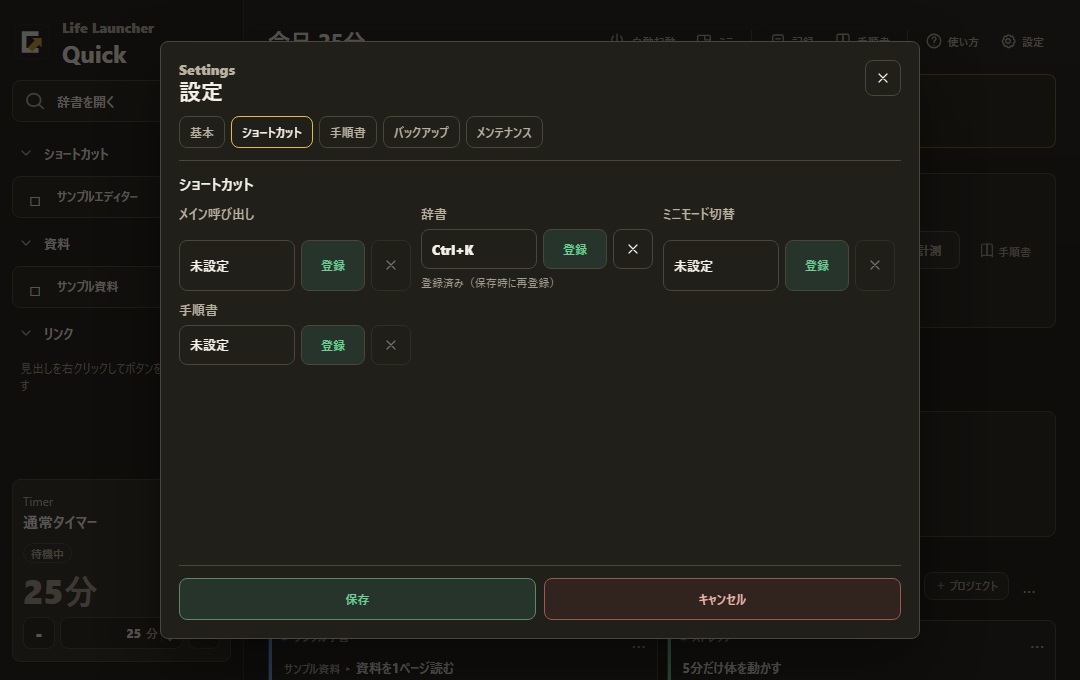
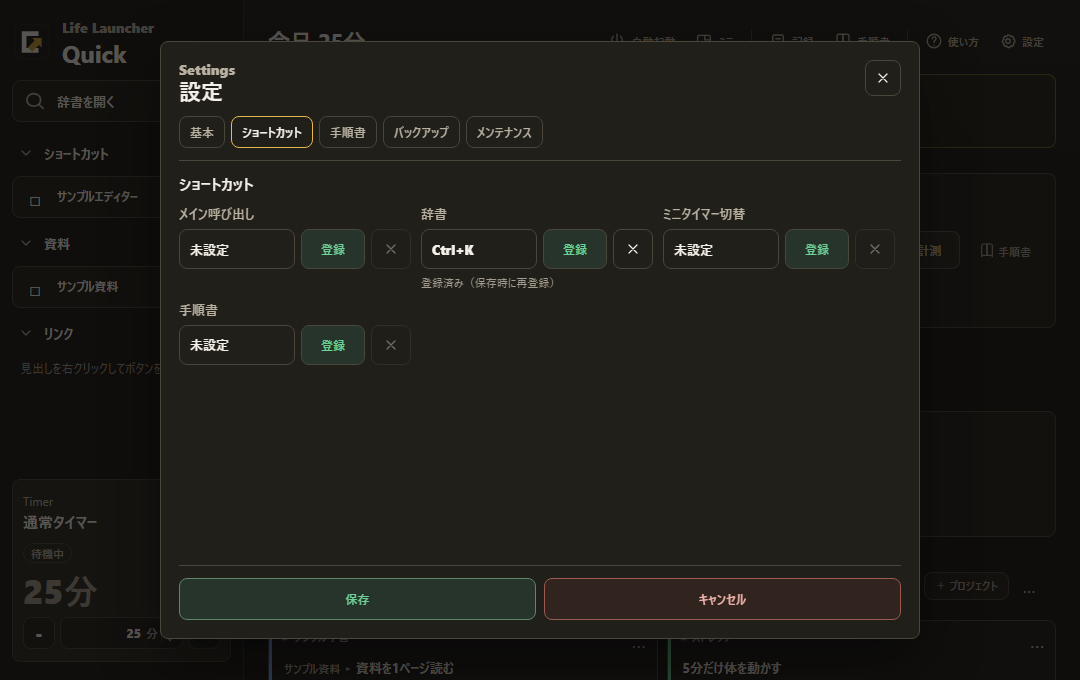
P9-10: ショートカット欄の上端をそろえ、ミニモードの表記をミニタイマーにそろえる
- 補足行の有無にかかわらず、同じ行のショートカット入力欄の上端をそろえる
- 画面に出る「ミニモード」を「ミニタイマー」に統一(設定のキーと保存形式は変更なし)
- 「以前のメモ（3日）」のかっこを全角に変更
- P9-09 のブランチの修正を取り込み

diff --git a/tests/visual/phase9-dialog-details.spec.ts b/tests/visual/phase9-dialog-details.spec.ts
@@ -119,7 +119,12 @@ test("P9-10 the mini setting is named 'use the mini timer' and still only gates 
   const saved = await page.evaluate(() => (window as QaWindow).__LIFE_LAUNCHER_VISUAL_QA__.currentConfig());
   expect(saved.settings.miniMode).toBe(false);
   // Same stored key, same effect: the top menu Mini button is disabled.
-  await expect(page.getByRole("button", { name: "ミニモードへ切り替え" })).toBeDisabled();
+  await expect(page.getByRole("button", { name: "ミニタイマーへ切り替え" })).toBeDisabled();
+  await expect(page.getByRole("button", { name: "ミニタイマーへ切り替え" })).toHaveAttribute(
+    "title",
+    "設定で「ミニタイマーを使う」をオンにしてください",
+  );
+  await expect(page.getByText("ミニモード")).toHaveCount(0);
 });
 
 // 4. Shortcut hints ---------------------------------------------------------------------------
@@ -132,7 +137,7 @@ test("P9-10 an unset shortcut shows 未設定 once; the line below appears only 
   await open(page, fixture);
   const settings = await openSettings(page, "ショートカット");
 
-  const unset = settings.locator(".shortcutCaptureField", { hasText: "ミニモード切替" });
+  const unset = settings.locator(".shortcutCaptureField", { hasText: "ミニタイマー切替" });
   await expect(unset.locator("kbd")).toHaveText("未設定");
   await expect(unset.locator("small")).toHaveCount(0);
 
@@ -146,6 +151,35 @@ test("P9-10 an unset shortcut shows 未設定 once; the line below appears only 
   await page.keyboard.press("Escape");
   await expect(unset.locator("small")).toHaveCount(0);
   await expect(settings.locator("small", { hasText: /^未設定$/ })).toHaveCount(0);
+});
+
+test("P9-10 shortcut inputs in the same row share one top whether or not they have a line below", async ({
+  page,
+}) => {
+  const fixture = createPickerFixture();
+  fixture.config.settings.miniHotkey = null;
+  await open(page, fixture);
+  const settings = await openSettings(page, "ショートカット");
+  const fields = settings.locator(".shortcutCaptureField");
+  await expect(fields).toHaveCount(4);
+  const boxes = await fields.evaluateAll((nodes) =>
+    nodes.map((node) => {
+      const field = node.getBoundingClientRect();
+      const control = node.querySelector(".shortcutCaptureControl")!.getBoundingClientRect();
+      return { fieldTop: field.top, controlTop: control.top, hasLine: Boolean(node.querySelector("small")) };
+    }),
+  );
+  // Both kinds exist: with the line (registered) and without it (unset).
+  expect(boxes.some((box) => box.hasLine)).toBe(true);
+  expect(boxes.some((box) => !box.hasLine)).toBe(true);
+  // The input sits at the same distance from its field's top, so fields in one row have equal input tops.
+  const offsets = boxes.map((box) => Math.round(box.controlTop - box.fieldTop));
+  expect(new Set(offsets).size).toBe(1);
+  for (const a of boxes) {
+    for (const b of boxes) {
+      if (Math.abs(a.fieldTop - b.fieldTop) < 1) expect(Math.abs(a.controlTop - b.controlTop)).toBeLessThan(1);
+    }
+  }
 });
 
 test("P9-10 a conflicting shortcut still shows its warning line", async ({ page }) => {
@@ -334,7 +368,7 @@ test("P9-10 the older notes disclosure has an arrow, shows the day count, and to
   const records = await openAllRecords(page);
   const older = records.locator(".recordsOlderNotes");
   const summary = older.locator("summary");
-  await expect(summary).toHaveText("以前のメモ(3日)");
+  await expect(summary).toHaveText("以前のメモ（3日）");
   // The same chevron icons as the other disclosures, and the native marker is not the indicator.
   await expect(summary.locator("svg")).toHaveCount(1);
   const closedIcon = await summary.locator("svg").evaluate((svg) => svg.innerHTML);

diff --git a/src/App.tsx b/src/App.tsx
@@ -436,7 +436,7 @@ const SHORTCUT_DRAFT_FIELDS: ReadonlyArray<{
 }> = [
   { field: "focusHotkey", label: "メイン呼び出し" },
   { field: "launcherHotkey", label: "辞書" },
-  { field: "miniHotkey", label: "ミニモード切替" },
+  { field: "miniHotkey", label: "ミニタイマー切替" },
   { field: "instructionHotkey", label: "手順書" },
 ];
 
@@ -3433,7 +3433,7 @@ function DashboardApp() {
   const openMiniMode = useCallback(async () => {
     if (expandedTimerOpen) return;
     if (!config?.settings.miniMode) {
-      showToast("warn", "設定でミニモードを有効にしてください");
+      showToast("warn", "設定で「ミニタイマーを使う」をオンにしてください");
       return;
     }
     let stage = "メイン画面の取得";
@@ -3458,7 +3458,7 @@ function DashboardApp() {
       await focusDashboardWindow().catch(() => undefined);
       const message = error instanceof Error ? error.message : String(error);
       console.error(`[mini-mode] ${stage}で失敗しました`, error);
-      showToast("warn", `ミニモードを開けません (${stage}): ${message}`);
+      showToast("warn", `ミニタイマーを開けません (${stage}): ${message}`);
     }
   }, [config?.settings.miniMode, ensureMiniWindow, expandedTimerOpen, miniSnapshot, showToast]);
 
@@ -10780,12 +10780,12 @@ function DashboardApp() {
                 onClick={() => void toggleMiniMode()}
                 title={
                   miniTransitioning
-                    ? "ミニモードを準備中"
+                    ? "ミニタイマーを準備中"
                     : config.settings.miniMode
-                      ? "ミニモードへ切り替え"
-                      : "設定でミニモードを有効にしてください"
+                      ? "ミニタイマーへ切り替え"
+                      : "設定で「ミニタイマーを使う」をオンにしてください"
                 }
-                aria-label="ミニモードへ切り替え"
+                aria-label="ミニタイマーへ切り替え"
                 type="button"
               >
                 <UiIcon name="miniMode" size={18} />

diff --git a/tests/visual/post-v133b-followup.spec.ts b/tests/visual/post-v133b-followup.spec.ts
@@ -161,11 +161,11 @@ test("shortcut conflict names every action and clears when the duplicate is remo
   await dialog.getByRole("tab", { name: "ショートカット" }).click();
   await expect(dialog.getByRole("alert")).toContainText("メイン呼び出し");
   await expect(dialog.getByRole("alert")).toContainText("辞書");
-  await expect(dialog.getByRole("alert")).toContainText("ミニモード切替");
+  await expect(dialog.getByRole("alert")).toContainText("ミニタイマー切替");
   await expect(dialog.locator(".shortcutCaptureField--conflict")).toHaveCount(3);
   await dialog.getByRole("button", { name: "保存", exact: true }).click();
   await expect(dialog).toBeVisible();
-  await dialog.getByRole("button", { name: "ミニモード切替のショートカットを解除" }).click();
+  await dialog.getByRole("button", { name: "ミニタイマー切替のショートカットを解除" }).click();
   await expect(dialog.locator(".shortcutCaptureField--conflict")).toHaveCount(2);
   await dialog.getByRole("button", { name: "メイン呼び出しのショートカットを解除" }).click();
   await expect(dialog.getByRole("alert")).toHaveCount(0);
@@ -175,7 +175,7 @@ test("shortcut matching ignores modifier order and alias spelling", () => {
   const conflicts = findShortcutConflicts([
     { field: "main", label: "メイン呼び出し", value: "Ctrl+Alt+K" },
     { field: "dictionary", label: "辞書", value: "Alt+Ctrl+K" },
-    { field: "mini", label: "ミニモード切替", value: "Ctrl+K" },
+    { field: "mini", label: "ミニタイマー切替", value: "Ctrl+K" },
     { field: "instructions", label: "手順書", value: "Command+Shift+J" },
   ]);
   expect(conflicts).toHaveLength(1);

diff --git a/tests/visual/phase8-records.spec.ts b/tests/visual/phase8-records.spec.ts
@@ -147,7 +147,7 @@ test("all records supports filters, keyboard context actions and execution-recor
   await expect(older).not.toHaveAttribute("open", "");
   await expect(older.locator("input")).toHaveCount(3);
   await expect(older.locator("input").first()).not.toBeVisible();
-  await older.getByText("以前のメモ(1日)", { exact: true }).click();
+  await older.getByText("以前のメモ（1日）", { exact: true }).click();
   await expect(older.getByRole("textbox").first()).toBeVisible();
 
   await records.getByRole("button", { name: "実行記録を追加" }).click();

diff --git a/src/RecordsView.tsx b/src/RecordsView.tsx
@@ -388,7 +388,7 @@ export function RecordsView({
           >
             <summary>
               <UiIcon name={olderNotesOpen ? "chevronDown" : "chevronRight"} size={16} />
-              {notesHistory?.entries.length ? `以前のメモ(${notesHistory.entries.length}日)` : "以前のメモ"}
+              {notesHistory?.entries.length ? `以前のメモ（${notesHistory.entries.length}日）` : "以前のメモ"}
             </summary>
             {notesHistory?.entries.length ? (
               <div className="notesHistoryList">

diff --git a/src/styles.css b/src/styles.css
@@ -7324,6 +7324,8 @@ input[type="number"]::-webkit-inner-spin-button {
 
 .shortcutCaptureField {
   min-width: 0;
+  /* P9-10: a field without the line below must not stretch its rows; inputs in one grid row share the same top. */
+  align-content: start;
 }
 
 .shortcutConflictWarning {

diff --git a/docs/phase9/10-dialog-details.md b/docs/phase9/10-dialog-details.md
@@ -2,6 +2,8 @@
 
 ブランチ: `feature/p9-10-dialog-details`(起点: `feature/p9-09-main-details`。PR のマージ先も P9-09 のブランチ)
 
+オーナー確認後の修正(14. 参照)を入れた。P9-09 のブランチの修正(案内文を1行に、入れ替え画面の見出し)も、このブランチに取り込んである。
+
 ## 1. 判定
 
 `DONE`(CI の結果は 11. に追記)
@@ -12,7 +14,8 @@
 
 - 英語の小見出しの表記ゆれ2か所(やりたいことを編集=`Wishlist`、辞書=`Dictionary`)、日付切替時刻の単位「時」、ミニの設定の名前「ミニタイマーを使う」、ショートカットの「未設定」の二重表示、メンテナンスタブの先頭の1行を直した。
 - 保存・追加・決定の文字を、キャンセルと同じ大きさ(12px)にそろえた(色は変えていない)。同じ食い違いは、ほぼ全ダイアログの操作行にあった(6. 参照)。
-- 記録画面のタブ列の左の「← メイン」をなくし、「以前のメモ」に開閉の矢印と日数(「以前のメモ(3日)」)を付けた。
+- 記録画面のタブ列の左の「← メイン」をなくし、「以前のメモ」に開閉の矢印と日数(「以前のメモ（3日）」)を付けた。
+- オーナー確認後の修正として、ショートカットの欄の上端をそろえ、画面に出る「ミニモード」を「ミニタイマー」にそろえ、日数のかっこを全角にした(14. 参照)。
 
 ## 3. 変更ファイル一覧
 
@@ -41,7 +44,7 @@
 | 5. メンテナンス | タブの先頭(見出しの下)に「このタブの操作は押すとすぐ実行されます。保存は不要です。」を表示。下部の「保存 / キャンセル」は残した。ほかのタブには出ない |
 | 6. 保存とキャンセルの文字 | 12px・太字にそろえた(6. の一覧) |
 | 7. 記録画面の戻るボタン | タブ列の左の「← メイン」をなくした。上部メニューの「← メイン」だけが残る。実装前に、記録画面をスクロールしても上部メニューが見えたままであることを確認した(7. のテスト) |
-| 8. 以前のメモ | 他の折りたたみと同じ開閉の矢印(`chevronRight` / `chevronDown`)を付け、見出しに日数を出す(「以前のメモ(3日)」。0日は「以前のメモ」)。中身がないときの「以前のメモはありません。」は変えない |
+| 8. 以前のメモ | 他の折りたたみと同じ開閉の矢印(`chevronRight` / `chevronDown`)を付け、見出しに日数を出す(「以前のメモ（3日）」。0日は「以前のメモ」)。中身がないときの「以前のメモはありません。」は変えない |
 
 ## 5. 完了条件ごとの結果
 
@@ -77,24 +80,25 @@
 - やりたいことの編集と追加の eyebrow が `Wishlist`。辞書ウィンドウの設定の eyebrow が `Dictionary`
 - 日付切替時刻の「時」(位置、ほかの数値欄には出ない)。値を5にして保存すると `dayStartHour` が 5
 - 「ミニタイマーを使う」の名前(旧名はない)。OFF にして保存すると `miniMode` が false で、上部メニューの「ミニ」が無効
-- ショートカット:未設定は補足行なし、登録済みは補足あり、記録中は案内、競合は警告
+- ショートカット:未設定は補足行なし、登録済みは補足あり、記録中は案内、競合は警告。同じ行の入力欄の上端がそろう(補足行のある欄とない欄が混ざった状態で、各欄の上端から入力欄までの距離が同じ、かつ同じ行の入力欄の上端が1px未満の差)。CSS を外すと失敗することを確認した
+- 上部メニューの「ミニ」ボタンの名前(`aria-label`「ミニタイマーへ切り替え」)と、無効のときの `title`(「設定で「ミニタイマーを使う」をオンにしてください」)。画面に「ミニモード」の文字が残っていない
 - メンテナンスタブの先頭の1行(ほかのタブにはない)と、保存・キャンセル
 - 保存とキャンセルの文字の大きさ・太さ(次の一手の編集、プロジェクト追加、やりたいこと追加、グループ名変更、ボタンを追加、設定、今日やるものを選ぶ、辞書の設定)。次の一手の編集で、保存が緑、キャンセルが赤のまま
 - 記録画面:タブ列に戻るボタンがなく、上部メニューの「メイン」が1つ。「すべての記録」でいちばん下までスクロールしても上部メニューの位置が変わらない(860×560)。上部メニューの「メイン」で戻れる
-- 以前のメモ:矢印と「(3日)」、開閉で矢印が変わる。0日は日数なしで、「以前のメモはありません。」が残る
+- 以前のメモ:矢印と「（3日）」(全角のかっこ)、開閉で矢印が変わる。0日は日数なしで、「以前のメモはありません。」が残る
 
 既存テストの更新(名前と、戻るボタンをなくしたことに伴う文字列・個数だけ):
 
 | ファイル | 更新 |
 | --- | --- |
-| `phase8-records` | 「メイン」の戻るボタンのクリックを上部メニューの「メイン画面に戻る」に。「以前のメモ」を「以前のメモ(1日)」に |
+| `phase8-records` | 「メイン」の戻るボタンのクリックを上部メニューの「メイン画面に戻る」に。「以前のメモ」を「以前のメモ（1日）」に |
 | `post-v133c-followup` | 記録画面のタブ列のボタンの数 4 → 3(戻るボタンがなくなったため)。位置・重なりの確認は変えていない |
 
 ## 8. 更新した基準画像
 
 | 画像 | 理由 |
 | --- | --- |
-| `records-review` / `records-week` / `records-all` | タブ列の左の「← メイン」がなくなった |
+| `records-review` / `records-week` / `records-all` | タブ列の左の「← メイン」がなくなった(`records-all` は、オーナー確認後の修正で「以前のメモ（3日）」の全角のかっこも反映して撮り直した。`records-review` / `records-week` は修正の前後で変わらない) |
 | `settings-basic` | 「時」の単位、「ミニタイマーを使う」の名前(差が小さいため、比較の許容の中でも差し替えた) |
 
 ## 9. スクリーンショット(`docs/phase9/10-screens/`)
@@ -119,7 +123,7 @@
 | `npm.cmd run public:check` | 通過(3542ファイル、blocker 0) |
 | `npm.cmd run lint` | 通過 |
 | `npm.cmd run build` | 通過 |
-| `npm.cmd run test:visual` | 465件通過、1件失敗、1.6分 |
+| `npm.cmd run test:visual` | 初回: 465件通過、1件失敗(1.6分)。オーナー確認後の修正のあと: 467件すべて通過(1.7分) |
 | `cargo fmt -- --check` / `cargo check` / `cargo clippy -D warnings` | 通過 |
 | `cargo test` | 通過(130件 + 1件) |
 | `git diff --check` | 通過 |
@@ -133,21 +137,32 @@
 ## 12. 判断メモ
 
 - **`settings.miniMode` の使い道(停止条件の確認)**: コードと Rust を確認した。使われているのは次の3か所で、すべて「ミニタイマーを開けるかどうか」の意味だった。ほかの用途(タイマーの動作、通知、表示など)はない。
-  1. `openMiniMode`:OFF のとき「設定でミニモードを有効にしてください」のトーストを出して開かない。上部メニューの「ミニ」ボタンと、ミニ切替のショートカット(`toggleMiniMode` を呼ぶ同じ道)の両方
+  1. `openMiniMode`:OFF のとき「設定で「ミニタイマーを使う」をオンにしてください」のトーストを出して開かない(最初は「…ミニモードを有効にしてください」だった)。上部メニューの「ミニ」ボタンと、ミニ切替のショートカット(`toggleMiniMode` を呼ぶ同じ道)の両方
   2. 上部メニューの「ミニ」ボタンの無効表示
   3. OFF になったとき、開いているミニウィンドウを閉じる処理(`hideMiniWindow`)
 
   指示書は「上部メニューのボタンで開けるかどうか」と書いているが、ショートカットと、開いているウィンドウを閉じる処理も同じ「使うかどうか」の意味なので、停止せず、「ミニタイマーを使う」の名前で足りると判断した。Rust 側は `miniMode` を保存と既定値にしか使っていない。
 - **「辞書」の eyebrow(指示書の項目1の2か所目)は表示されない**: `src/App.tsx` の「辞書」ダイアログ(`launcherOverlay`)は `{false && launcherOverlayOpen && (…)}` で、画面に出ない古いコードだった。指示書のとおり `Launcher` → `Dictionary` に直したが、画面の見た目は変わらない。表示される辞書ウィンドウの設定の eyebrow は、もともと `Dictionary`(テストで確認)。
-- **名前を変えたあとのトースト**: 上部メニューの「ミニ」が無効のときのトーストと `title`(「設定でミニモードを有効にしてください」)は、設定の名前が変わったあとも「ミニモード」のままになる。指示書は設定のチェックの名前だけを対象にしているため、変えていない(13. 参照)。
-- **ショートカットの補足行の高さ**: 未設定の行は補足行がなくなるので、未設定の行だけ少し低い。
+- **名前を変えたあとのトースト**: 最初は指示書の対象外として「ミニモード」のまま残し、提案にした。オーナーの指示で、画面に出る名前をすべて「ミニタイマー」にそろえた(14. 参照)。
+- **ショートカットの補足行の高さ**: 補足行がなくなると、同じ行の欄が行の高さに合わせて伸び、入力欄が下にずれた(「メイン呼び出し」「ミニモード切替」が「辞書」より下)。欄の内側を上詰め(`align-content: start`)にして、入力欄の上端をそろえた(14. 参照)。未設定の欄は補足行の分だけ短く、行の高さは補足行のある欄が決める。
 - **「時」は読み上げない**: 見た目だけの単位で、ラベルの「日付切替時刻」と値で伝わるため `aria-hidden` にした。
-- **日数のかっこ**: 指示書の例にそろえて、半角のかっこ「以前のメモ(3日)」にした(アプリのほかの見出しは全角のかっこ)。
+- **日数のかっこ**: 最初は指示書の例にそろえて半角のかっこにしたが、オーナーの指示で全角(「以前のメモ（3日）」)にした。
 - **文字の大きさ12px**: 保存側を大きいキャンセル側(12px)ではなく、キャンセル側の12pxにそろえた。設定ダイアログとほかの操作行がすでに12pxだったため。16pxにそろえると、操作行の高さに対して大きすぎる。
 - **日数の数え方**: 「以前のメモ」の日数は、以前のメモがある日付の数(保存済みの `notes` の日付の件数)。
 
 ## 13. 提案(実装していないこと)
 
-- 上部メニューの「ミニ」が無効のときのトーストと `title`(「設定でミニモードを有効にしてください」)を、設定の名前に合わせて「ミニタイマーを使う」へ。
 - 画面に出ない `launcherOverlay` のダイアログ(`{false && …}`)と、使われなくなった `.timerHint`、`.settingsButton--warning` の CSS の整理。
-- 日数のかっこ(半角)を、アプリのほかの見出しと同じ全角にそろえるかどうか。
+
+## 14. オーナー確認後の修正
+
+P9-09 の確認と合わせて、次の修正を入れた(P9-09 のブランチの修正は `docs/phase9/09-main-details.md` に書いた)。
+
+| 項目 | 内容 |
+| --- | --- |
+| ショートカットの欄の上端 | `.shortcutCaptureField` を上詰め(`align-content: start`)にした。補足行の有無にかかわらず、同じ行の入力欄の上端がそろう。`after-settings-shortcuts.png` で、「メイン呼び出し」「辞書」「ミニタイマー切替」の入力欄が同じ高さに並ぶ。テストを追加し、CSS を外すと失敗することを確認した |
+| 「ミニモード」→「ミニタイマー」 | ショートカットのラベル「ミニタイマー切替」、上部メニューの「ミニ」ボタンの `aria-label`「ミニタイマーへ切り替え」と `title`(準備中は「ミニタイマーを準備中」、無効のときは「設定で「ミニタイマーを使う」をオンにしてください」)、開けないときのトースト2つ(「設定で「ミニタイマーを使う」をオンにしてください」「ミニタイマーを開けません (…)」)。設定のキー `miniMode` と保存形式、コンソールのログ(`[mini-mode]`)は変えない。仕様書(§19 の設定の表・ショートカットの表)も合わせた |
+| 日数のかっこ | 「以前のメモ（3日）」(全角)。仕様書とテストも合わせた |
+
+- **トースト**: ホットキーでミニを開く経路のトースト(`openMiniMode`)は、テストでは出せないので文言の確認はしていない(ボタンは無効のときに押せず、`title` だけをテストした)。コードの文言は上の表のとおり。
+- 画像: `after-settings-shortcuts.png`、`after-records-all-older-notes-closed.png`、`after-records-all-older-notes-open.png` を撮り直した。
